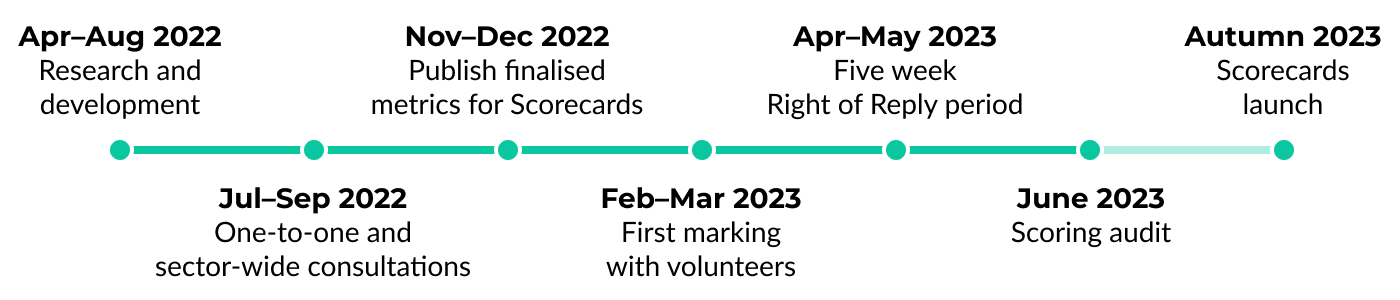
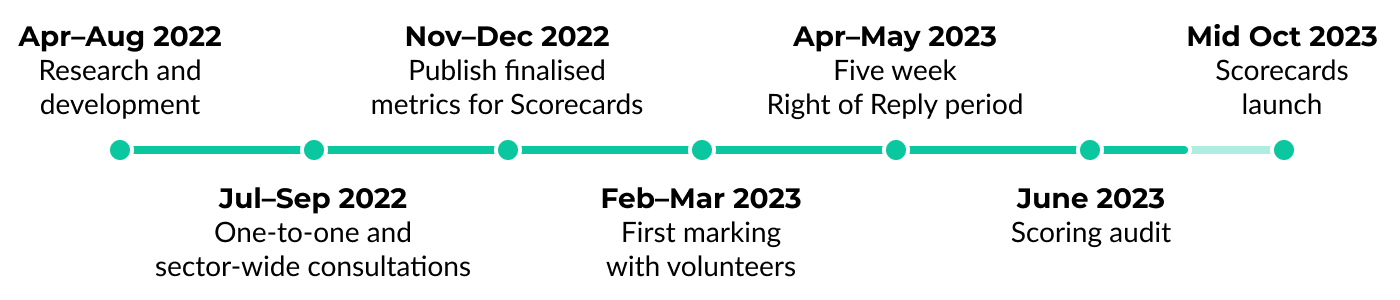
[Scorecards] Update timeline graphic post-audit

diff --git a/scoring/templates/scoring/home.html b/scoring/templates/scoring/home.html
@@ -12,7 +12,7 @@
                 Council Climate Action Scorecards
                 draft methodology
             </h2>
-            <p class="mx-auto" style="max-width: 44em;">We have now published our draft methodology for the next wave of the Scorecards project: the Council Climate Action Scorecards. Last year we marked every UK council's Climate Action Plans; this time we’ll be scoring the actual climate action they have taken.</p>
+            <p class="mx-auto" style="max-width: 38em;">We have published our draft methodology for the the Council Climate Action Scorecards 2023. Last year we marked every UK council's Climate Action Plans. In&nbsp;mid-October 2023 we’ll be releasing the results of the Council Climate Action Scorecards, scoring the actual climate action they have taken.</p>
             <p><a href="{% url 'methodology' %}" class="btn btn-blue is--light">Read the draft methodology</a></p>
             <a href="{% url 'methodology' %}" class="d-none d-sm-block my-4"><img src="{% static 'scoring/img/2023-timeline@2x.png' %}" width="700" height="150" style="max-width: 100%; height: auto;" class="d-block mx-auto" alt="Timeline showing: April to August 2022, research and development; July to September 2022, one-to-one and sector-wide consultations; November to December 2022, publish finalised metrics for Scorecards; February to March 2023, first marking with volunteers; April to May 2023, five week right of reply period; Summer 2023, scoring audit; and Autumn 2023, scorecards launch"></a>
             <p class="mx-auto mb-3"><a href="https://www.climateemergency.uk/" class="d-inline">Join our mailing list</a> to follow our progress towards the 2023 Scorecards.</p>
